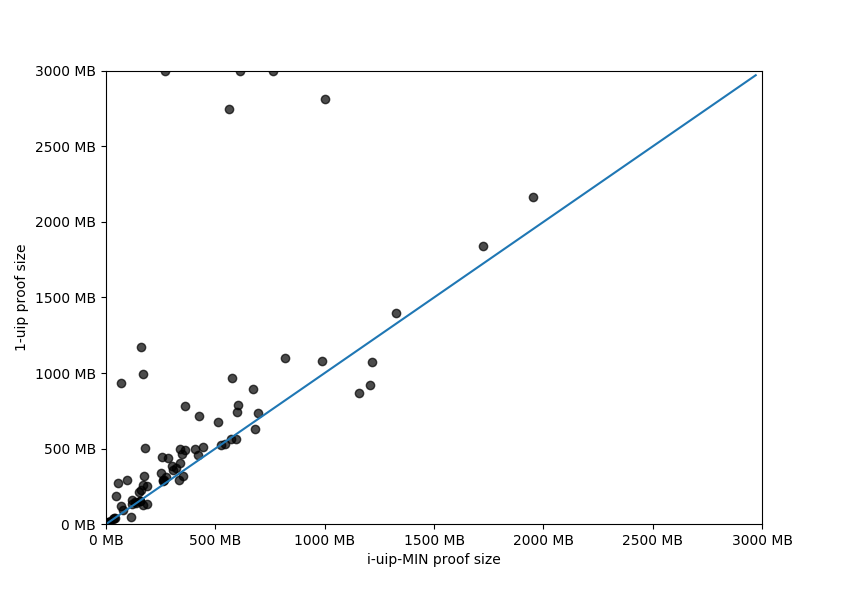
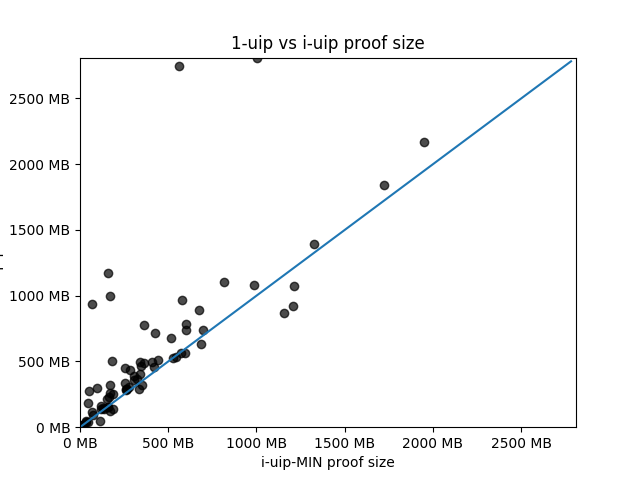
continue evaluation

diff --git a/sections/evaluation.tex b/sections/evaluation.tex
@@ -5,58 +5,129 @@ To evaluate $\IUIP$'s effectiveness as a clause reduction technique, we implemen
 
 The benchmark contains 400 instances divided into two groups of 200, new and old, representing historical instances and fresh instances in the 2019 race, respectively. I partition the old group instances into six partitions of size 30 and one partition of size 20. Each partition is then assigned to a Intel CPU node with 16 cores (2 sockets 8 cores  and  1 thread) and 96649 MB memory. The new group is partitioned based on their contributor (e.g. Heule contributed 22 matrix multiplication instances), and each partition is assigned to a aforementioned CPU node. To speed up the experiment, we allow a CPU node to solver at most seven instances concurrently. 
 
-Beside solved instances and PAR-2 score, we additionally measure the average clause length and clause reduction ratio for each instances. For $\MapleIUIPPURE$  and $\MapleIUIMIN$, we also captures the $\IUIP$ learning attempted rate and success rate.
+Beside solved instances count and PAR-2 score, we additionally measure the average clause length and clause reduction ratio for each instances. For $\MapleIUIPPURE$  and $\MapleIUIMIN$, we also captures the $\IUIP$ learning attempted rate and success rate.
 
-\nf{Inserted a table here, and graphs and analysis}
-
-
-
-
+\begin{figure} 
 \begin{center}
 \begin{tabular}{ | m{3.5cm} | m{2cm}| m{2cm} | m{2cm} | m{2.5cm} | } 
 \hline
 Solver & \# solved & PAR-2 & Clause Size & Cl Reduction\% \\ 
 \hline
-$\MapleBase$ & 221 & 5005.2 & 62.6 & 36.53\% \\ 
+$\MapleBase$ & 221 & 5018.89 & 62.6 & 36.53\% \\ 
 \hline
-$\MapleIUIPPURE$ & cell9 & cell9 & cell10 & cell11\\ 
+$\MapleIUIPPURE$ & 226 & 4920.04 & 49.6 & 41.6\% \\ 
 \hline
-$\MapleIUIMIN$ & 226 & 4933.6 & 45.2 & 47.5\%\\ 
+$\MapleIUIMIN$ & 226 & 4890.67 & 45.2 & 47.8\%\\ 
 \hline
 \end{tabular}
 \end{center}
+\caption{Benchmark results of $\MapleBase$ , $\MapleIUIPPURE$  and $\MapleIUIMIN$ on SAT2019 race main track.}
+\label{fig:t1}
+\end{figure}
+
+Fig.~\ref{fig:t1} shows that both version of $\IUIP$ solved five more instances than the baseline solver with lower PAR-2 scores. $\IUIPMIN$ has marginally lower PAR-2 score than $\IUIPPURE$. Both $\IUIPPURE$ and $\IUIPMIN$ produce clause with significantly smaller size than 1-UIP by 27.7\% and 20.7\%, respectively. Fig.~\ref{fig:len_pdf} shows the probability density distribution (PDF) of the average clause length from $\IUIPMIN$ relative to 1-UIP. $\IUIPMIN$ learning produces shorter clauses for 88.25\% instances, and average relative reduction from 1-UIP is 18.685\%.Fig.~\ref{fig:len_compare} compares the absolute average clause size from $\IUIPMIN$ and 1-UIP, and it shows that $\IUIPMIN$ in general produces smaller clauses, and the size reduction is more significant for instances with large average 1-UIP clause size. 
+
+We also looked at the 14 instances solved by $\IUIPMIN$ but not by 1-UIP. $\IUIPMIN$ produces smaller clauses for all of them with average relative reduction of 22\% and maximum 77\% (30 vs 135). Seven out of 14 instances has size relative reduction over 30\%. For the 9 instances solved by 1-UIP but not by $\IUIPMIN$, $\IUIPMIN$ only produce smaller clause by 33\% and with average relative reduction of 3.3\$.
+
 
 
 \begin{figure}
     \centering
-    \includegraphics[width=0.8\textwidth, natwidth=610,natheight=642]{clause_length_PDF.png}
+    \includegraphics[width=0.8\textwidth,natwidth=610,natheight=642]{clause_length_PDF.png}
     \caption{Average clause (relative to 1-UIP clauses) size distribution. X axis indicates the relative size difference, and Y axis indicates the PDF.}
      \label{fig:len_pdf}
 \end{figure}
 \begin{figure} \label{fig:len_compare}
     \centering
-    \includegraphics[width=0.8\textwidth, natwidth=610,natheight=642 ]{i-uip-sizes-compare.png}
+    \includegraphics[width=0.8\textwidth,natwidth=610,natheight=642]{i-uip-sizes-compare.png}
     \caption{Average clause size comparison plot. Each point in the plot represents an benchmark instance. X and Y axis shows the clause length from $\MapleIUIMIN$ and $\MapleBase$, respectively  }
     \label{fig:len_compare}
 \end{figure}
 
 
+$\IUIPMIN$ outperformed $\IUIPPURE$ in both PAR-2 score and clause size.  This results agrees with our observation in Fig.~\ref{fig:t2}: $\IUIPMIN$ attempted $\IUIP$ learning more frequently, and it is more likely to succeed. Remark that the success of $\IUIP$ learning is determined by the size of the learned i-UIP clause $\iUIPClause$, and the $\IUIP$ learning frequency is also indirectly controlled by $\IUIP$'s success rate from the previous restart interval. The results indicates  $\IUIPMIN$ shortened $\iUIPClause$'s size through further minimization of $\iUIPClause$ at non-unique implication decision level.
 
 
 
-A solver produce smaller clauses can construct smaller proofs as well. For UNSAT instances, we additionally measure their DRUP\cite{} proof checking time as well as the size of the optimized DRUP proof. We used DART-trim \cite{} with 5000 timeout to check and optimize DRUP proofs. 
+\begin{figure} 
+\begin{center} 
+\begin{tabular}{ | m{3.5cm} | m{5cm}| m{5cm} | } 
+\hline
+Solver & $\IUIP$ attempt rate & $\IUIP$ success rate  \\ 
+\hline
+$\MapleIUIPPURE$ & 16.1\% & 43.4\% \\ 
+\hline
+$\MapleIUIMIN$ & 28.8\% & 59.3\% \\ 
+\hline
+\end{tabular}
+\end{center}
+\caption{Compare $\IUIPPURE$ and $\IUIPMIN$ i-uip attempt rate and success rate. $\IUIPMIN$ scheme attempted $\IUIP$ more frequently, and it is more likely to successfully produce smaller $\iUIPClause$ clause .}
+\label{fig:t2}
+\end{figure}
 
-\nf{Insert a comparison graphs here. (X and Y comparisons graph, showing both time and optimized proof size).}
+A solver produce smaller clauses can construct smaller proofs. For UNSAT instances, we additionally measure their DRUP\cite{} proof checking time as well as the size of the optimized DRUP proof. We used DART-trim \cite{} with 5000 timeout to check and optimize DRUP proofs. 
 
+Fig.~\ref{fig:t3} shows that the optimized proof construct by $\IUIPMIN$ and $\IUIPPURE$ are significantly smaller than 1-UIP proofs. The relative proof size reduction rougly correlates to the average clause size reduction. Fig.~\ref{fig:proof_compare} shows the absolute proof size comparison results. 
+
+\begin{figure} 
+\begin{center} 
+\begin{tabular}{ | m{3.5cm} | m{5cm}| m{5cm} | } 
+\hline
+Solver & optimized proof size (MB) & relative reduction size  \\ 
+\hline
+$\MapleBase$ & 613.9 & 0  \\ 
+\hline
+$\MapleIUIPPURE$ & 487.2 & 6.90\% \\ 
+\hline
+$\MapleIUIMIN$ & 413.2 & 17.18\% \\ 
+\hline
+\end{tabular}
+\end{center}
+\caption{Optimized UNSAT proof comparison for 1-UIP $\IUIPPURE$ and $\IUIPMIN$. Optimized proof size measures the average absolute proof size in MB, and relative reduction size measures the average relative reduction for all UNSAT instances.}
+\label{fig:t3}
+\end{figure}
+
+\begin{figure}
+    \centering
+    \includegraphics[width=0.8\textwidth,natwidth=610,natheight=642]{proof_size_compare.png}
+    \caption{Average optimized proof size between 1-uip and $\IUIPMIN$.}
+    \label{fig:proof_compare}
+\end{figure}
 
 \subsection{$\IUIP$ as a Practical Learning Scheme}
-To evaluate $\IUIP$'s effectiveness as a clause learning scheme, we implement $\IUIPMIN$ on $\MapleBase$ with the extensions mentioned in section~\ref{sec:i-uip}. We evaluated four different configurations (i-UIP, i-UIP-Greedy, i-UIP-Inclusive, and i-UIP-Exclusive) of $\IUIP$ and 1-UIP learning on the SAT Race 2019 main track benchmark and report each configuration's solved instances and PAR-2 score. 
+To evaluate $\IUIP$'s effectiveness as a clause learning scheme, we implement $\IUIPMIN$ on $\MapleBase$ with the extensions mentioned in section~\ref{sec:i-uip}. We evaluated four different configurations (i-UIP, i-UIP-Greedy, i-UIP-Inclusive, and i-UIP-Exclusive) of $\IUIP$ and 1-UIP learning on the SAT Race 2019 main track benchmark and report each configuration's solved instances, PAR-2 score and average clause size. 
+
+Fig.~\ref{fig:t4} summarizes the result of the experiment. Learning scheme i-UIP-greedy solves the same amount of instance (226) as i-UIP with less PAR-2 score. The inclusive activity adjustment solves the most SAT instances (138) and the least UNSAT instances (87). The exclusive activity adjustment scheme produces the shortest average clause size, but solved the second least instances, one more instance than the baseline.  
+
+\begin{figure} 
+\begin{center}
+\begin{tabular}{ | m{3.5cm} | m{4cm}| m{2cm} | m{2.75cm} |  } 
+\hline
+Solver & \# solved (SAT, UNSAT) & PAR-2 & Avg clause Size \\ 
+\hline
+1-UIP & 221 (132, 89)  & 5018.89 & 62.6  \\ 
+\hline
+i-UIP & \textbf{226} (135, \textbf{91}) & 4890.67 & 45.2 \\ 
+\hline
+i-UIP-greedy & \textbf{226} (135, \textbf{91})  & \textbf{4866.94} & 47.7 \\
+\hline
+i-UIP-active-Inclusive & 225 (\textbf{138}, 87) & 4958.49 & 52..12 \\
+\hline
+i-UIP-active-Exclusive & 223 (134, 89) & 5015.23 & \textbf{43.2} \\
+\hline
+\end{tabular}
+\end{center}
+\caption{Benchmark results of 1-UIP ($\MapleBase$), i-UIP($\IUIPMIN$), i-UIP-Greedy,
+i-UIP-Inclusive, and i-UIP-Exclusive on SAT2019 race main track.}
+\label{fig:t4}
+\end{figure}
+
 
 \nf{Inserted a table here, and graphs and analysis}
 
 
 \subsection{$\IUIP$ on Modern SAT solvers}
 To validate $\IUIP$ as a generalizable learning scheme on modern SAT solvers, we re-implement $\IUIP$ on $\MapleSeven$ \cite{},  $\MapleNine$ \cite{} and $\expSAT$.  
-The first two solvers are the winner of 2017 and 2019 SAT race, respectively.  $\expSAT$ is a top ten solver from 2019 SAT race which uses random walk simulation to help branch. For each solver, we compare the base 1-UIP learning scheme against top two $\IUIP$ configurations, $\IUIPGreedy$ and $\IUIPActive$, on the SAT Race 2019 main track benchmark. We report solved instances and PAR-2 score.
+The first two solvers are the winner of 2017 and 2019 SAT race, respectively.  $\expSAT$ is a top ten solver from 2019 SAT race which uses random walk simulation to help branching. For each solver, we compare the base 1-UIP learning scheme against top two $\IUIP$ configurations, $\IUIPGreedy$ and $\IUIPActive$, on the SAT Race 2019 main track benchmark. We report solved instances and PAR-2 score.
 
 \nf{Inserted a table here, and graphs and analysis}
